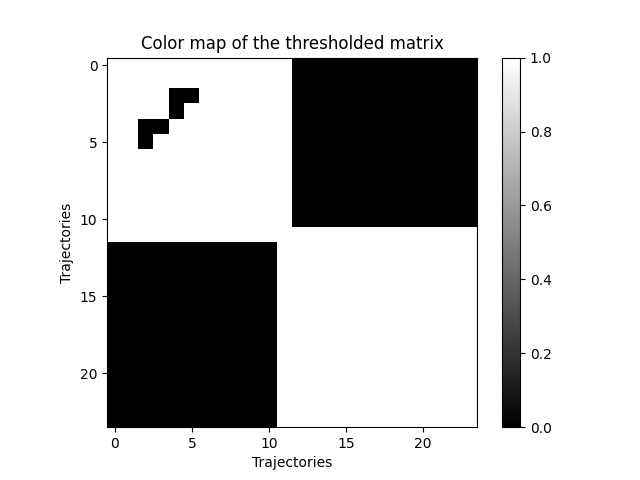
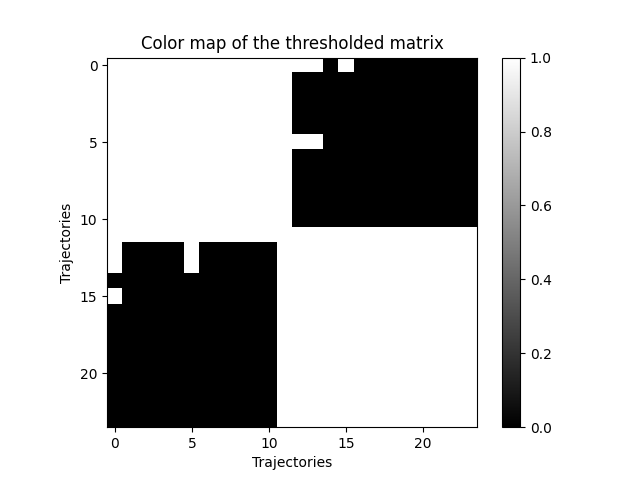
new figures

diff --git a/exp_motion_sense.py b/exp_motion_sense.py
@@ -75,14 +75,12 @@ plt.close()
 
 # Color map of the original matrix
 Vs, Us = subspace_estimation(combined_data,K)
-tau = 110
+tau = 140
 labels, S_original, S = clustering_fast(combined_data, Vs, Us, K, tau, 0)
 fig, ax = plt.subplots()
 ax.set(xlabel = "Trajectories", ylabel = "Trajectories", title = "Color map of the original matrix")
 cax = ax.matshow(S_original, cmap = "gray")
 ax.tick_params(top=False, labeltop=False, bottom=True, labelbottom=True)
-fig.colorbar(cax, ax=ax)
-fig.savefig("gray_color_map.png")
 plt.close()
 
 # Histogram of computed distances 
@@ -101,6 +99,8 @@ cax = ax.matshow(S, cmap = "gray")
 ax.tick_params(top=False, labeltop=False, bottom=True, labelbottom=True)
 fig.colorbar(cax, ax=ax)
 fig.savefig("gray_color_map_true.png")
+fig.colorbar(cax, ax=ax)
+fig.savefig("gray_color_map.png")
 plt.close()
 
 # Misclassification rate

diff --git a/exp_clustering.py b/exp_clustering.py
@@ -7,7 +7,7 @@ import matplotlib.pyplot as plt
 from clustering import clustering_fast
 
 # Initial setup 
-Ntrial = 1
+Ntrial = 10
 d = 40
 K =  2
 rho = 0.5
